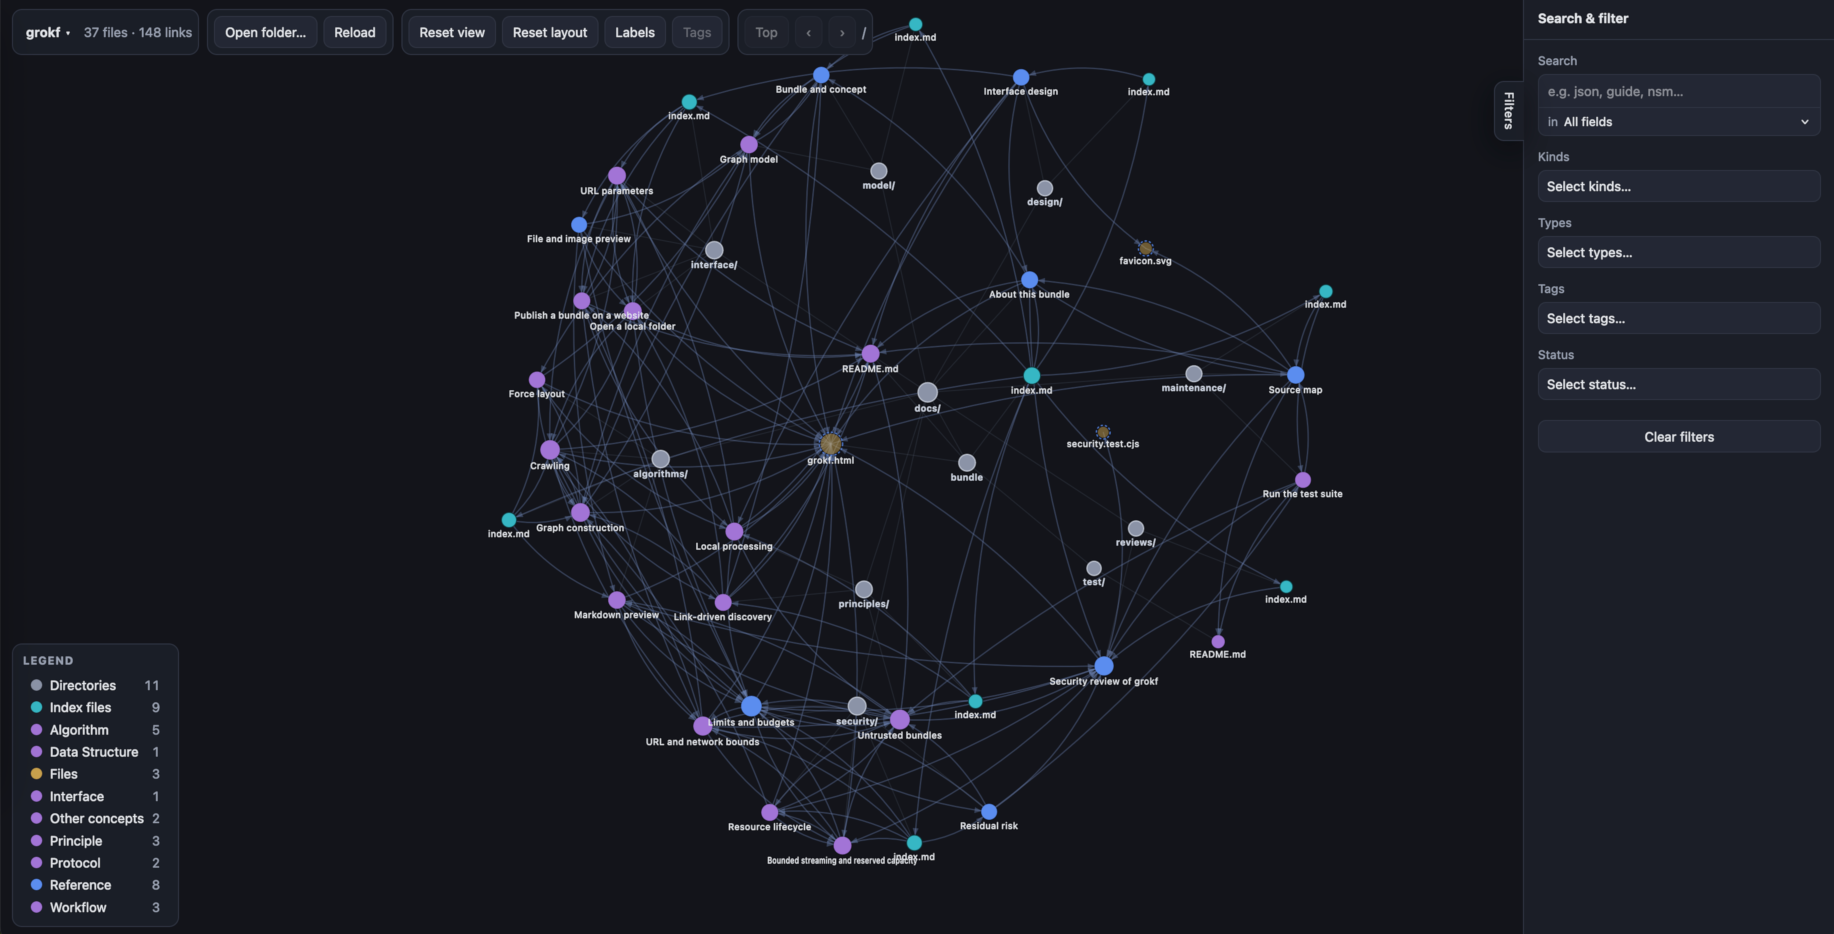
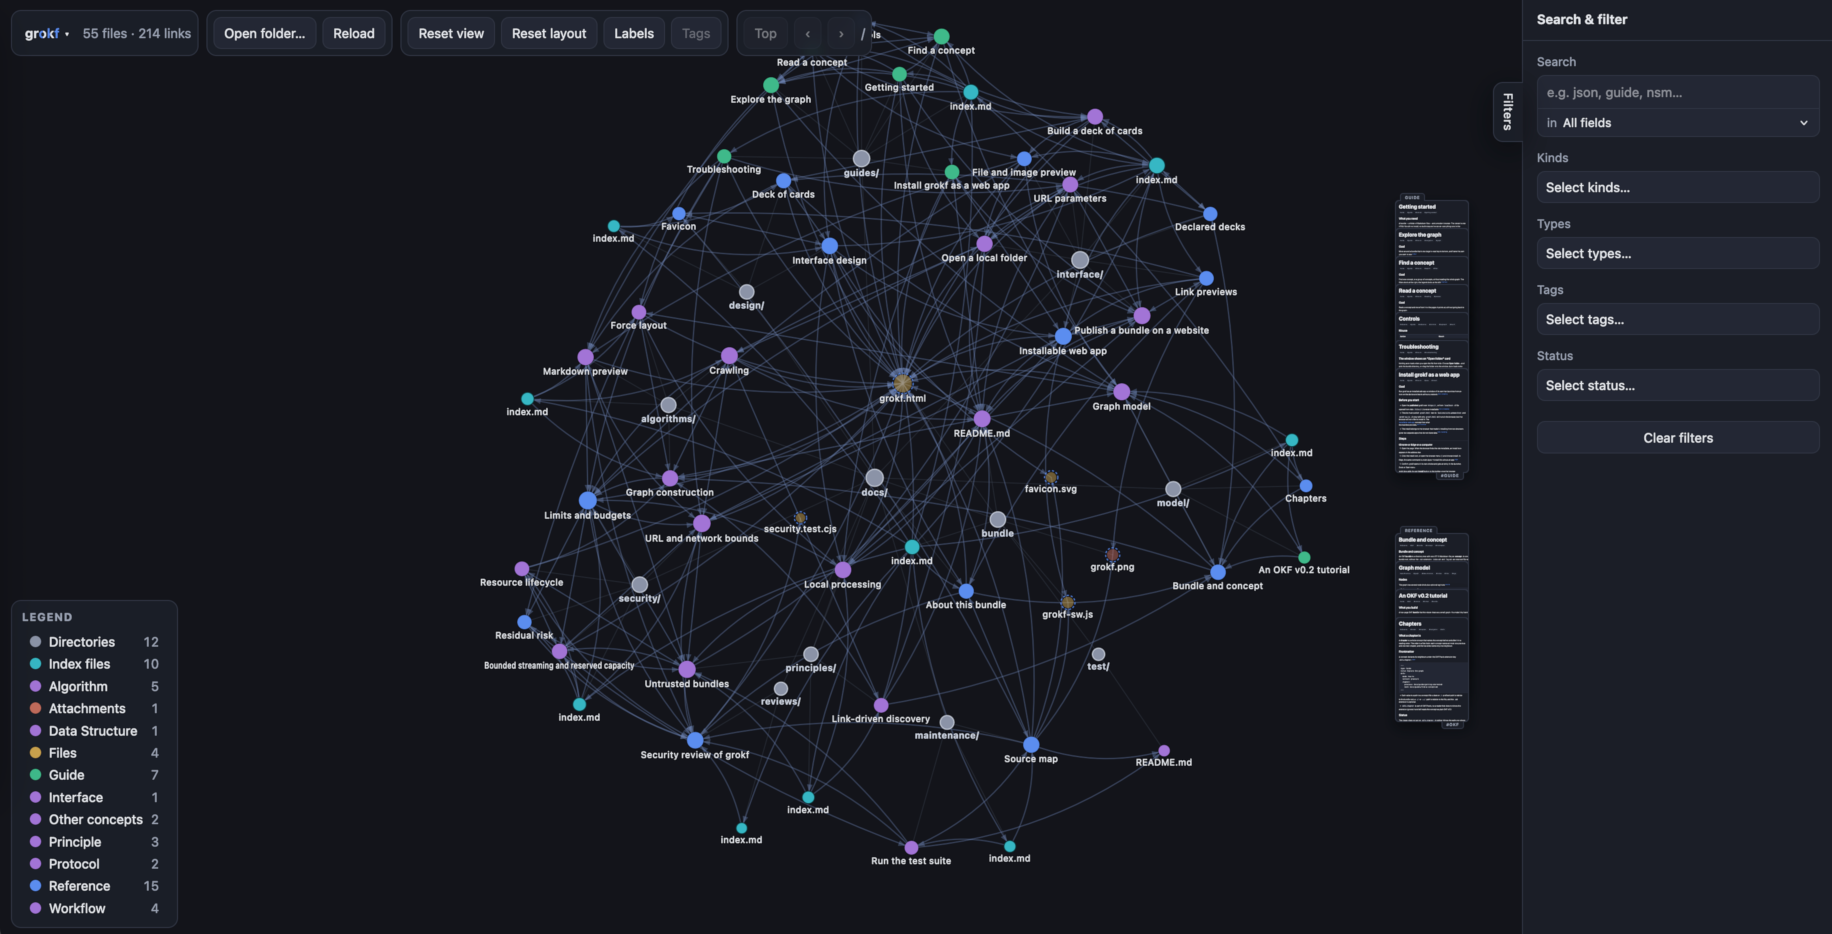
doc: refreshed readme instructions

diff --git a/grokf.html b/grokf.html
@@ -367,6 +367,13 @@
     display: flex; align-items: baseline; gap: 10px;
     padding: 12px 14px; border-bottom: 1px solid var(--line);
   }
+  /* The title and path sit together on one line, sharing the space between the
+     controls. On small screens the path wraps onto its own line when the pair no
+     longer fits, instead of being squeezed out. */
+  #pvHead .head-text {
+    display: flex; align-items: baseline; gap: 10px;
+    flex: 1 1 auto; min-width: 0;
+  }
   #pvHead .t {
     font-weight: 600; font-size: 15px; white-space: nowrap;
     min-width: 0; overflow: hidden; text-overflow: ellipsis;
@@ -514,6 +521,10 @@
       position: absolute; left: 100%; bottom: 84px; transform: none;
       border-left: 0; border-radius: 0 10px 10px 0;
     }
+
+    /* The preview header wraps on small screens: the path drops onto its own line
+       below the title when the pair no longer fits side by side. */
+    #pvHead .head-text { flex-wrap: wrap; gap: 2px 10px; }
   }
 
   /* Deck of cards: cards float on the right edge without a panel, so the deck
@@ -1000,8 +1011,10 @@
     <div id="pvHead">
       <button id="pvBack" type="button" title="Back" disabled>‹</button>
       <button id="pvFwd" type="button" title="Forward" disabled>›</button>
-      <span class="t" id="pvTitle"></span>
-      <span class="p" id="pvPath"></span>
+      <span class="head-text">
+        <span class="t" id="pvTitle"></span>
+        <span class="p" id="pvPath"></span>
+      </span>
       <button id="pvDeck" type="button" title="Add this page to the deck" aria-label="Add this page to the deck">⋮</button>
       <button id="pvClose" type="button">Close</button>
     </div>

diff --git a/README.md b/README.md
@@ -6,11 +6,13 @@
 
 Tool for exploring [Open Knowledge Format (OKF)](https://github.com/GoogleCloudPlatform/open-knowledge-format) bundles in your web-browser. All files are processed locally in your web-browser.
 
-Visit https://grokf.org/ to try it out.
-
 ![grokf](grokf.png "grokf")
 
 ## Usage
+
+### Hosted on grokf.org
+
+Visit https://grokf.org/ to try it now.
 
 ### In local web-browser
 
